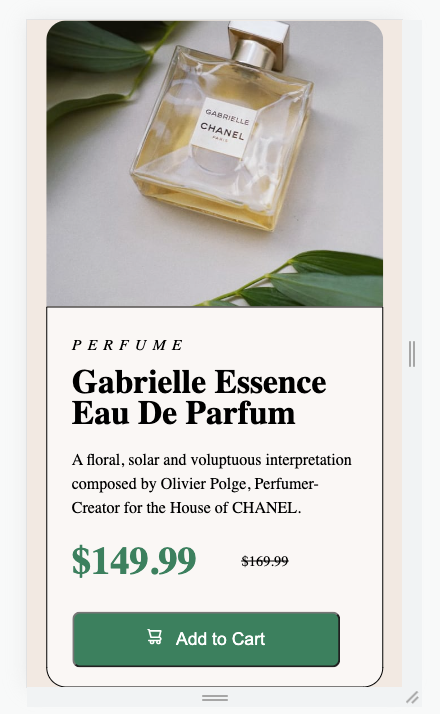
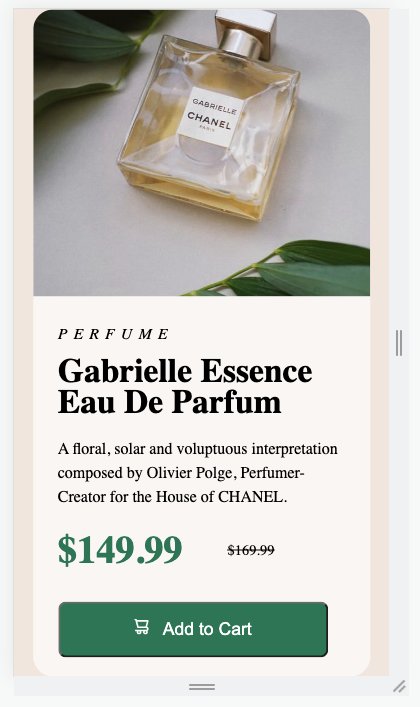
readme update

diff --git a/style.css b/style.css
@@ -152,7 +152,7 @@ button:hover {
         background: rgba(255, 255, 255, 0.645);   
         border-radius: 0px 0px 20px  20px;
         position: relative;   
-        border: 1px solid black;
+        /* border: 1px solid black; */
     }
     .card .product-info h1 {
         margin: 10px 0 20px 0;

diff --git a/README.md b/README.md
@@ -40,51 +40,27 @@ Then crop/optimize/edit your image however you like, add it to your project, and
 
 ### What I learned
 
-I have learned how to Google solutions for my coding problems. I have used Stack Overflow, W3 School, and some of my prior knowledge of basic HTML and CSS Media Queries to make it mobile-responsive. I also learned about CSS variables. 
+I have learned how to Google solutions for my coding problems. I have used Stack Overflow, W3 School, and some of my prior knowledge of basic HTML and CSS Media Queries to make it mobile-responsive. I also learned and implemented CSS variables. This project also reinforced some basic git commands. 
 
-To see how you can add code snippets, see below:
-
-```html
-<h1>Some HTML code I'm proud of</h1>
-```
-```css
-.proud-of-this-css {
-  color: papayawhip;
-}
-```
-```js
-const proudOfThisFunc = () => {
-  console.log('🎉')
-}
-```
-
-If you want more help with writing markdown, we'd recommend checking out [The Markdown Guide](https://www.markdownguide.org/) to learn more.
-
-**Note: Delete this note and the content within this section and replace with your own learnings.**
 
 ### Continued development
 
 Use this section to outline areas that you want to continue focusing on in future projects. These could be concepts you're still not completely comfortable with or techniques you found useful that you want to refine and perfect.
 
-**Note: Delete this note and the content within this section and replace with your own plans for continued development.**
 
 ### Useful resources
 
-- [Example resource 1](https://www.example.com) - This helped me for XYZ reason. I really liked this pattern and will use it going forward.
-- [Example resource 2](https://www.example.com) - This is an amazing article which helped me finally understand XYZ. I'd recommend it to anyone still learning this concept.
-
-**Note: Delete this note and replace the list above with resources that helped you during the challenge. These could come in handy for anyone viewing your solution or for yourself when you look back on this project in the future.**
+- [This README](README.md) - This helped me to understand why I need a README file and gave me an outline to use. 
+- [The Markdown Guide](https://www.markdownguide.org/) - This recommended article is an informative introduction on Markdowns. 
 
 ## Author
 
-- Website - [Add your name here](https://www.your-site.com)
-- Frontend Mentor - [@yourusername](https://www.frontendmentor.io/profile/yourusername)
-- Twitter - [@yourusername](https://www.twitter.com/yourusername)
 
-**Note: Delete this note and add/remove/edit lines above based on what links you'd like to share.**
+- Frontend Mentor - [@smarko-web](https://www.frontendmentor.io/profile/smarko-web)
+
 
 ## Acknowledgments
 
 This is where you can give a hat tip to anyone who helped you out on this project. Perhaps you worked in a team or got some inspiration from someone else's solution. This is the perfect place to give them some credit.
 
-**Note: Delete this note and edit this section's content as necessary. If you completed this challenge by yourself, feel free to delete this section entirely.**
+
